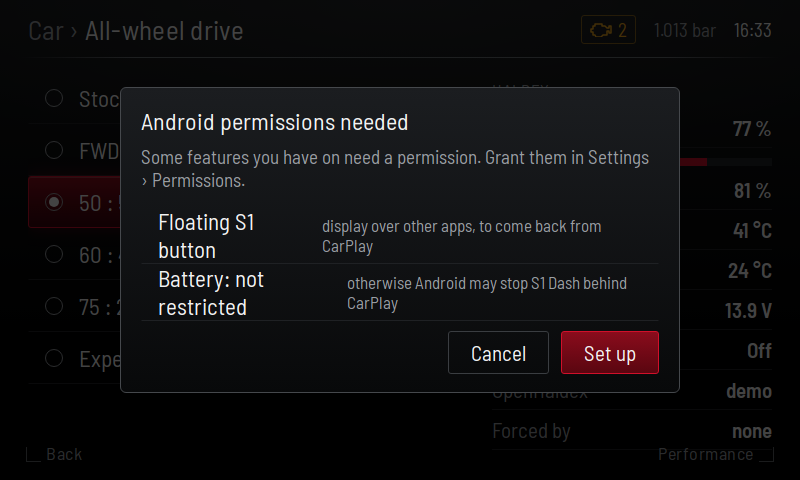
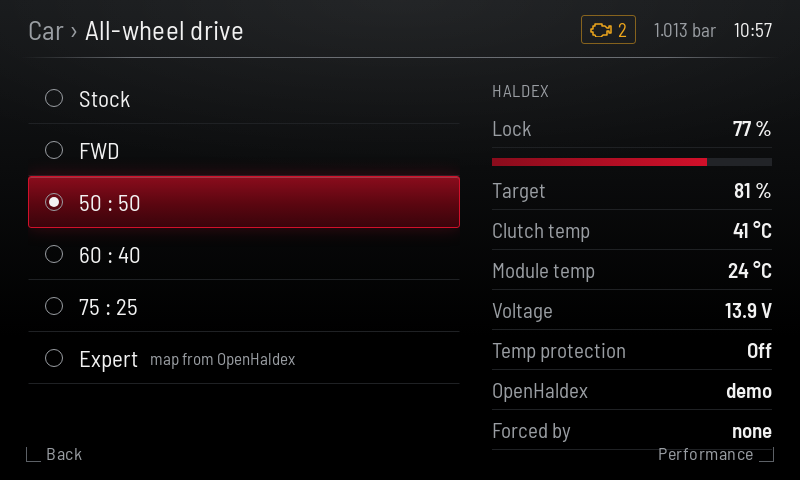
README screenshots without the permissions prompt; MAP stays in kPa by default
The browser demo pretended two permissions were missing, so the one-time 'Android permissions
needed' prompt (after 2.5 s) covered every screenshot (the renderer runs 4 s of page time).
The demo now behaves like a set-up device; ?perms still shows the prompt for testing.
Also: with pressure on the default 'bar', MAP, ambient and pre-throttle had turned into bar
since the units change (#29); they show in kPa again, as before. Checked: all 46 engine
tiles show the same units as before units existed. Screenshots re-rendered.

diff --git a/app/src/main/assets/ui/app.js b/app/src/main/assets/ui/app.js
@@ -54,7 +54,8 @@
         return JSON.stringify(l);
       },
       openApp: function () { return true; },
-      permState: function () { var o = { overlay: /[?&]overlay/.test(location.search), notif: true, battery: /[?&]battery/.test(location.search) }; return JSON.stringify(o); },
+      // The demo is a fully set-up device; ?perms pretends two permissions are missing, to try the prompt.
+      permState: function () { var miss = /[?&]perms/.test(location.search); return JSON.stringify({ overlay: !miss, notif: true, battery: !miss }); },
       askPerm: function () {}, overlayAllowed: function () { return /[?&]overlay/.test(location.search); }, askOverlay: function () {},
       connLog: function () { return "21 Nov 10:00:01  sources started\n21 Nov 10:00:02  OpenHaldex: connected\n21 Nov 10:00:03  ECU: connected (SimosTools dongle)\n21 Nov 10:04:12  ECU: BLE link dropped (status 8: link timeout, the radio lost the dongle), asking again"; },
       calState: function () {
@@ -272,7 +273,8 @@
       var isAbs = src === "kPa"; // kPa values are absolute pressures (MAP and friends); keep their sense
       if (p === "psi") return [bar === undefined ? bar : bar * 14.5038, "psi", src === "kPa" ? 1 : Math.max(dec - 1, 0)];
       if (p === "kPa") return [bar === undefined ? bar : bar * 100, "kPa", src === "kPa" ? dec : Math.max(dec - 2, 0)];
-      return [bar, "bar", src === "kPa" ? 2 : dec];
+      // Default "bar" keeps the kPa readings (MAP, ambient, pre-throttle) in kPa, as before units existed.
+      return src === "kPa" ? [x, "kPa", dec] : [bar, "bar", dec];
     }
     if (src === "°C") return unitOf("temp") === "F" ? [x === undefined ? x : x * 9 / 5 + 32, "°F", dec] : [x, "°C", dec];
     if (src === "km/h") return unitOf("speed") === "mph" ? [x === undefined ? x : x * 0.621371, "mph", dec] : [x, "km/h", dec];
